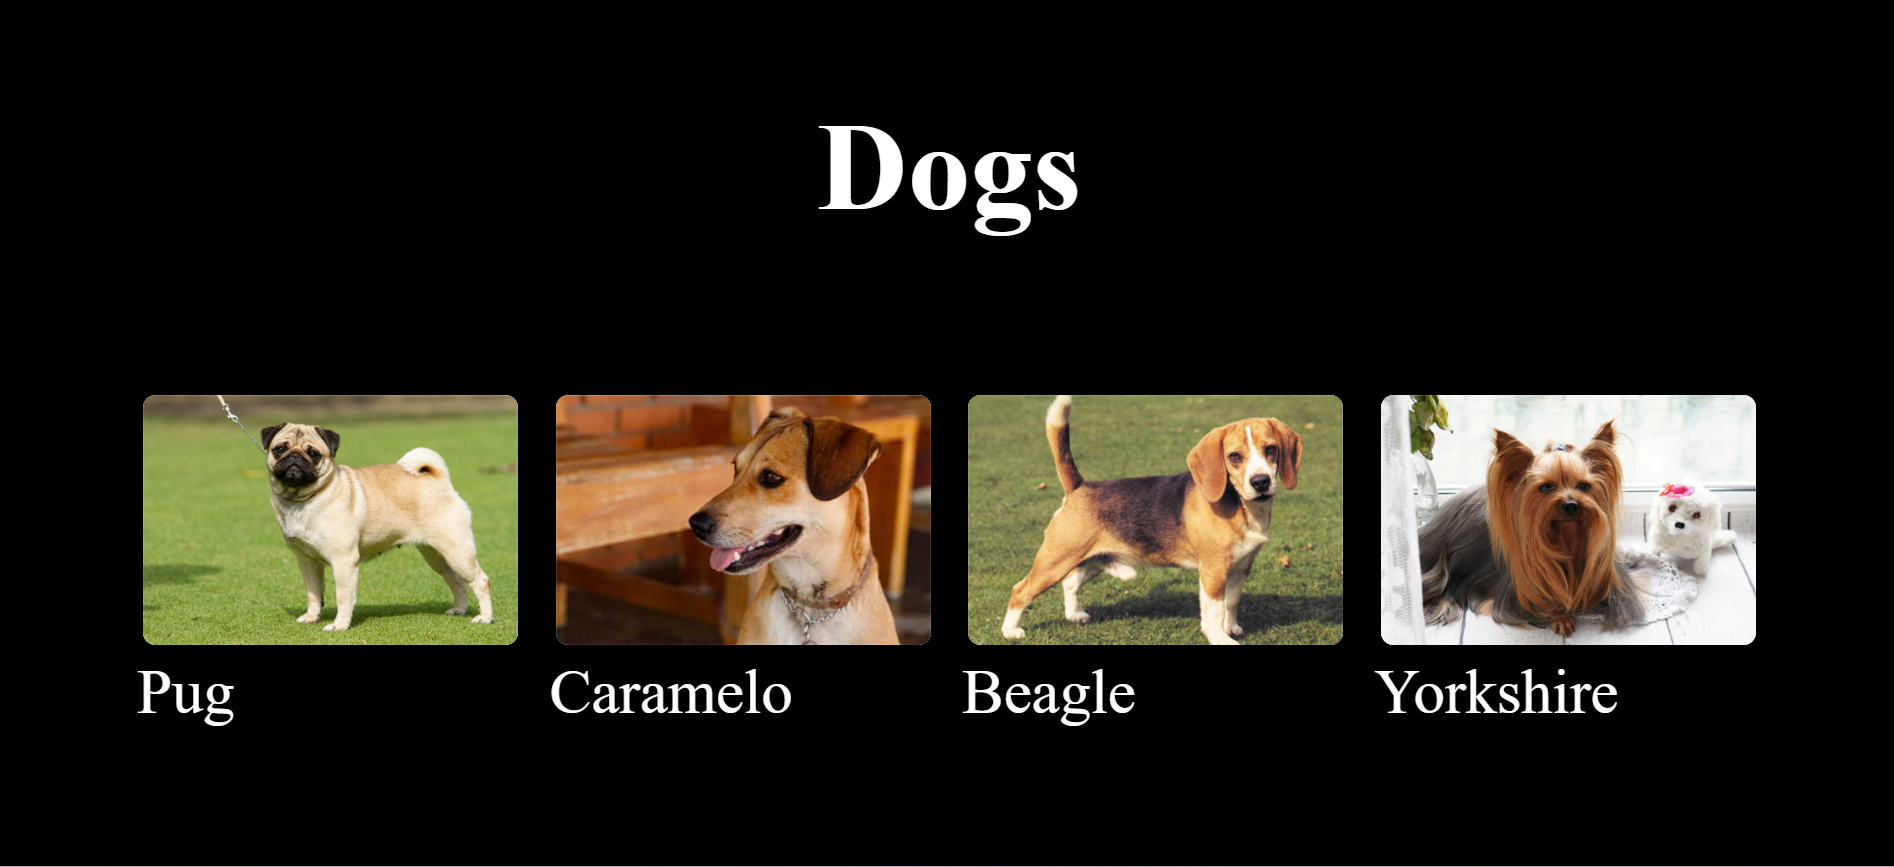
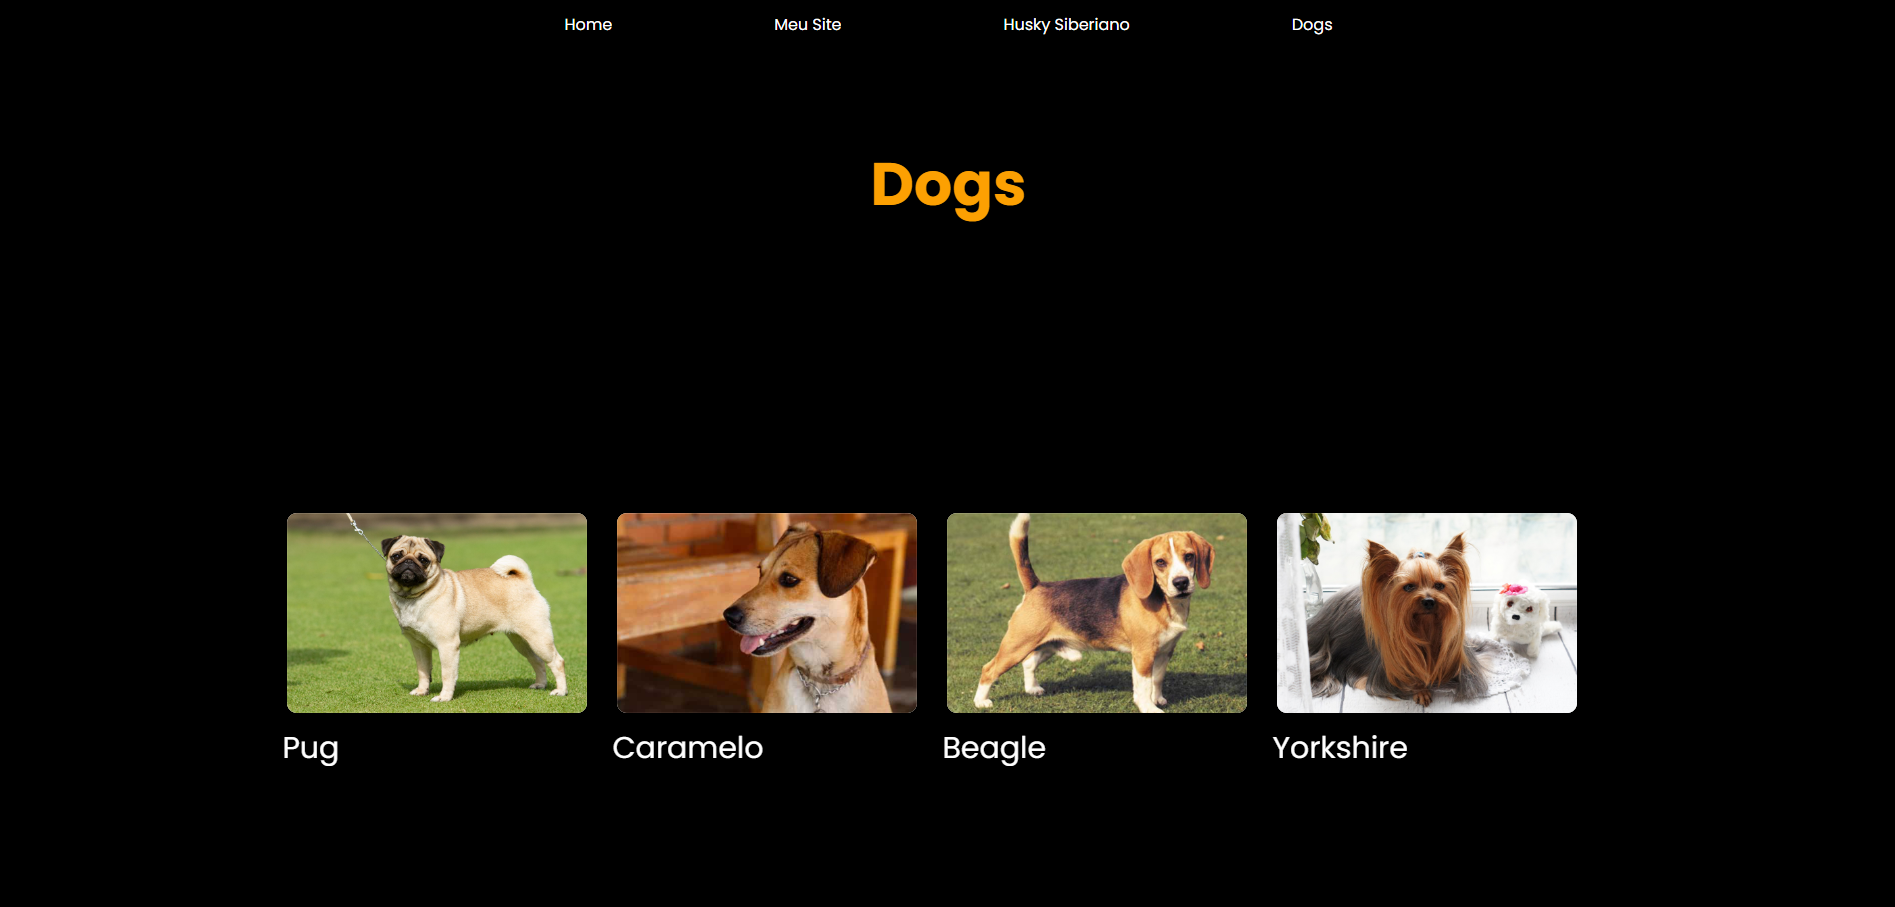
Atualizando o HTML e CSS
Atualizando o HTML adicionando fonte, o header, h2 e CSS estilizando o header e h2.

diff --git a/index.html b/index.html
@@ -4,27 +4,42 @@
     <meta charset="UTF-8">
     <meta name="viewport" content="width=device-width, initial-scale=1.0">
     <link rel="stylesheet" href="style.css">
-    <title>Scroll</title>
+    <!-- Googlee Font -->
+     <!-- Google Fonts -->
+    <link rel="preconnect" href="https://fonts.googleapis.com">
+    <link rel="preconnect" href="https://fonts.gstatic.com" crossorigin>
+    <link href="https://fonts.googleapis.com/css2?family=Poppins:ital,wght@0,100;0,200;0,300;0,400;0,500;0,600;0,700;0,800;0,900;1,100;1,200;1,300;1,400;1,500;1,600;1,700;1,800;1,900&display=swap" rel="stylesheet">
+
+    <title>Tela Scroll</title>
 
 </head>
 <body>
-    <section class="hidden">
-        <h2>Seja Bem-vindo(a)!</h2>
+    <header>
+        <nav>
+            <a href="#home">Home</a>
+            <a href="#meuSite">Meu Site</a>
+            <a href="#dog">Husky Siberiano</a>
+            <a href="#dogs">Dogs</a>
+        </nav>
+    </header>
+    <section id="home" class="hidden">
+        <h1>Seja Bem-vindo(a)!</h1>
         <p>Achei este efetio muito bonito e quero compartilhar com você esta esperiência incrível. Então vamos lá?</p>
     </section>
 
-    <section class="hidden">
-        <h2>Meu Site</h2>
+    <section id="meuSite" class="hidden">
+        <h1>Meu Site</h1>
         <p>Criando estas páginas entrando pela lateral da tela, ficou muito show! Não foi? Agora veja o mesmo efeito com melhorias utilizado fotos. Você irá se surpriender.</p>
     </section>
     
-    <section class="hidden">
+    <section id="dog" class="hidden">
         <img src="./imagens/dog01.png">
-        <p>Husky Siberiano</p>
+        <h2>Husky Siberiano</h2>
+        <p>O husky siberiano é uma raça de cães de trabalho e companhia, do tipo Spitz, oriunda da Sibéria na Rússia. Sua função específica é tracionar trenós.</p>
     </section>
 
-    <section class="hidden">
-        <h2>Dogs</h2>
+    <section id="dogs" class="hidden">
+        <h1>Dogs</h1>
 
         <div class="dogs">
             <div class="hidden">

diff --git a/style.css b/style.css
@@ -2,28 +2,68 @@
     margin: 0;
     padding: 0;
     box-sizing: border-box;
+    text-decoration: none;
 }
 
 body{
     background-color: #000000;
     color: #fff;
-    margin: 50px;
+    font-family: Poppins, sans-serif;
+}
+
+header{
+    position: fixed;
+    display: flex;
+    justify-content: space-between;
+    align-items: center;
+    width: 80vw;
+    height: 50px;
+    left: 50%;
+    transform: translateX(-50%);
+    z-index: 2;
+    background-color: #000000;
+}
+
+header nav{
+    display: flex;
+    justify-content: space-between;
+    margin: auto;
+    width: 50%;
+}
+
+header nav a{
+    color: #fff;
+    cursor: pointer;
+    transition: 0.3s;
+}
+
+header nav a:hover{
+    color: #fca002;
+    font-weight: 600;
+    transform: scale(1.1);
+}
+
+h1{
+    text-align: center;
+    font-size: 60px;
+    color: #fca002;
 }
 
 h2{
-    text-align: center;
-    font-size: 100px;
+    font-size: 50px;
+    color: #fca002;
 }
 
 p{
-    font-size: 50px;
+    width: 60%;
+    font-size: 30px;
 }
 
 section{
     display: grid;
     place-items: center;
     align-items: center;
-    min-height: 90vh;
+    min-height: 100vh;
 }
 
 section > img{
@@ -47,6 +87,8 @@ section > img{
 
 .dogs{
     display: flex;
+    width: 70%;
+    margin: auto;
     gap: 20px;
 }
 
